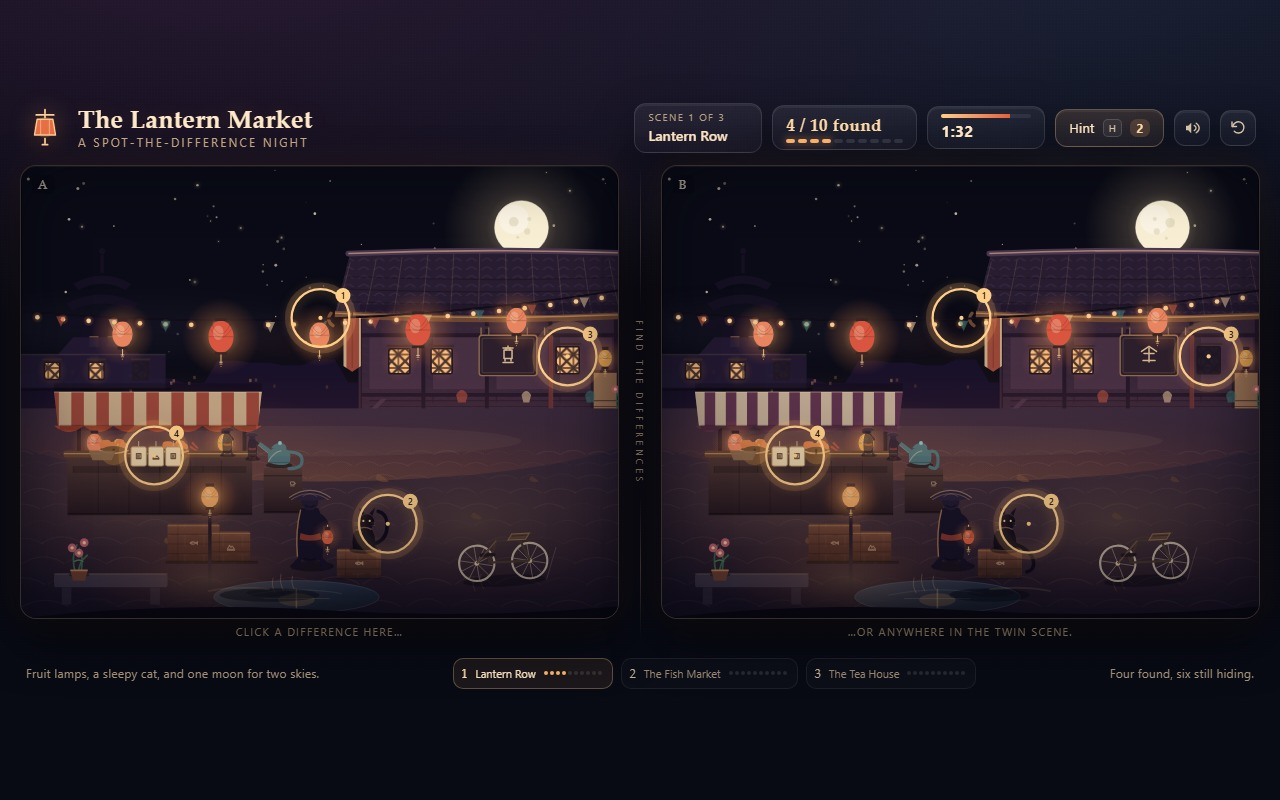
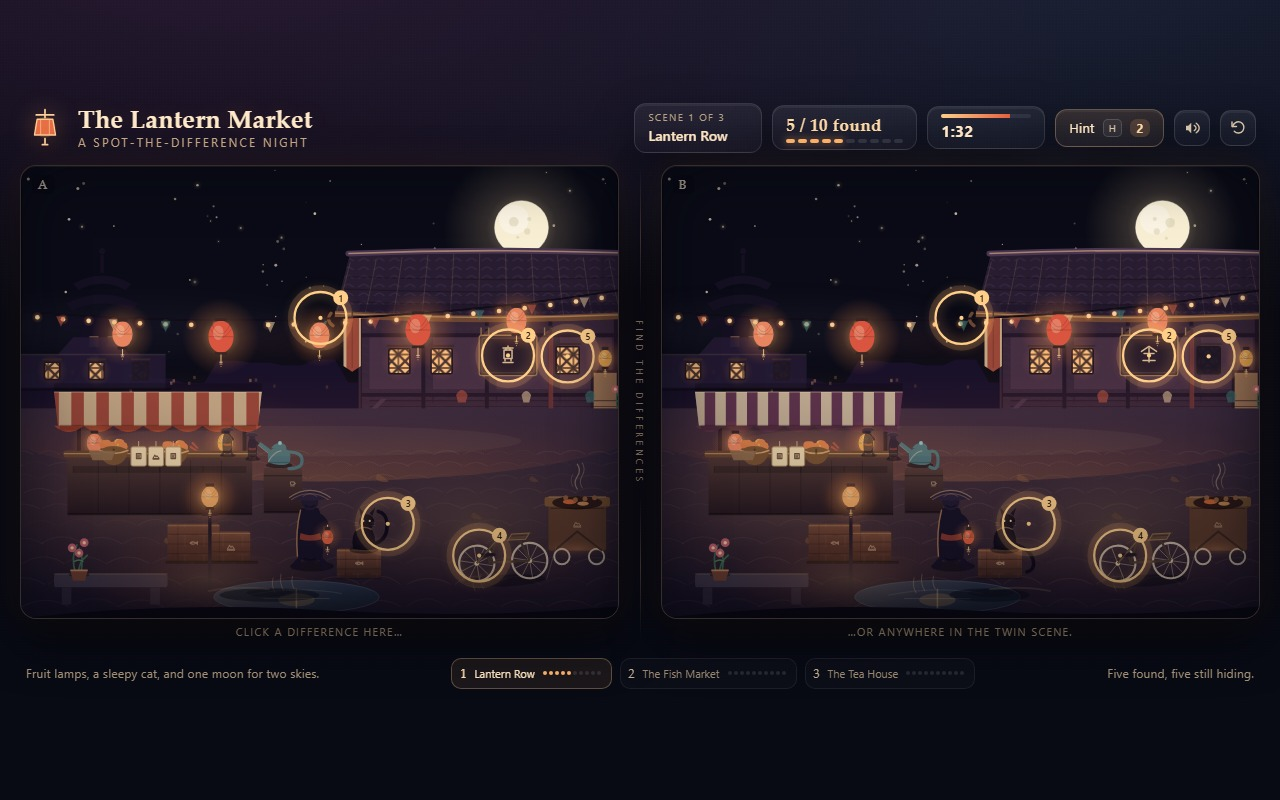
Lantern Row: chestnut cart, warmer tray, tighter markers, urgent clock
Scene 1 gains a steaming chestnut cart at the corner, scene 2 a chalk catch
sign and a cleaner scale, scene 3 a menu board and a lantern over the tea
table. Markers sit a little tighter, the clock turns urgent at thirty seconds,
and the cover now shows five finds.

diff --git a/game/src/scenes/lantern-row.js b/game/src/scenes/lantern-row.js
@@ -8,7 +8,7 @@ import {
 import {
   paperLantern, bulbString, awning, counter, crates, signBoard, windowBox,
   standingFigure, cat, bicycle, teapot, glyph, fruitBasket, puddle, potPlant,
-  hangingCloth, roofTiles,
+  hangingCloth, roofTiles, steam,
 } from '../art/props.js';
 
 const CABLE = [-10, 150, 630, 128, 40];
@@ -206,6 +206,24 @@ export const lanternRow = {
       <g opacity=".5">
         <path d="M262 428 q-3 8 2 16 M270 424 q-2 10 3 18 M282 426 q-2 8 2 14" stroke="#ffcf8a" stroke-width="1.1" fill="none" opacity=".5"/>
         <path d="M470 428 q-2 8 2 14 M478 424 q-2 10 3 16" stroke="#ffb469" stroke-width="1" fill="none" opacity=".35"/>
+      </g>
+
+      <!-- chestnut cart at the corner -->
+      <g>
+        <rect x="548" y="352" width="60" height="48" rx="3" fill="#5d3b2c"/>
+        <rect x="544" y="344" width="68" height="10" rx="2" fill="#7a5232"/>
+        <path d="M548 344 H608" stroke="#ffcf8a" stroke-opacity=".35" stroke-width="1.4"/>
+        <ellipse cx="578" cy="350" rx="26" ry="7" fill="#2f1a18"/>
+        <ellipse cx="570" cy="349" rx="7" ry="2.6" fill="#ff7a3a" opacity=".75"/>
+        <ellipse cx="584" cy="351" rx="6" ry="2.2" fill="#ffb469" opacity=".7"/>
+        ${[566, 576, 586, 596].map((x) => `<circle cx="${x}" cy="${347 - (x % 3)}" r="2.6" fill="#8a5a3a"/>`).join('')}
+        ${steam({ x: 578, y: 336, s: 0.65 })}
+        <path d="M550 356 h56" stroke="#00000044" stroke-width="1.4"/>
+        <circle cx="562" cy="406" r="8" fill="none" stroke="#c9b8a3" stroke-width="2"/>
+        <circle cx="598" cy="406" r="8" fill="none" stroke="#c9b8a3" stroke-width="2"/>
+        <path d="M554 400 L578 380 L604 400" fill="none" stroke="#3a2620" stroke-width="2"/>
+        ${glyph('mount', 578, 372, 12, '#e8c79a', 1, 0.5)}
+        <ellipse cx="578" cy="398" rx="38" ry="10" fill="url(#pool-warm)" opacity=".7"/>
       </g>
 
       <!-- the cat and its crate -->

diff --git a/game/src/main.js b/game/src/main.js
@@ -338,14 +338,14 @@ function poseShot(mode) {
     return;
   }
   if (mode === 'cover') {
-    hunt.pose(0, pick(['lantern', 'cat', 'window', 'price']), 93, 1);
+    hunt.pose(0, pick(['lantern', 'sign', 'cat', 'window', 'wheel']), 93, 1);
     paintScene();
     paintFoundMarkers();
-    hud.setFound(4, 10);
+    hud.setFound(5, 10);
     hud.updateTrack(hunt.scenes, hunt.index);
     hud.setTime(93, 120);
     hud.setHints(2);
-    hud.toast('Four found, six still hiding.', { quiet: true, hold: 900000 });
+    hud.toast('Five found, five still hiding.', { quiet: true, hold: 900000 });
     return;
   }
   if (mode === 'play') {
@@ -362,12 +362,12 @@ function poseShot(mode) {
     return;
   }
   if (mode === 'found') {
-    hunt.pose(2, pick(['lattice', 'steam', 'teapot', 'umbrella', 'tassel', 'flowers']), 41, 2);
+    hunt.pose(2, pick(['lattice', 'steam', 'teapot', 'umbrella', 'tassel', 'flowers']), 18, 2);
     paintScene();
     paintFoundMarkers();
     hud.setFound(6, 10);
     hud.updateTrack(hunt.scenes, hunt.index);
-    hud.setTime(41, 120);
+    hud.setTime(18, 120);
     hud.setHints(1);
     hud.toast('Six found — the tea house is nearly read.', { quiet: true, hold: 900000 });
     const hinted = hunt.scene.spots.find((spot) => !spot.found);

diff --git a/game/src/scenes/tea-house.js b/game/src/scenes/tea-house.js
@@ -20,6 +20,10 @@ function teaHouseFacade(B) {
     <rect x="140" y="148" width="340" height="8" fill="#1c1326" opacity=".55"/>
     <ellipse cx="310" cy="292" rx="190" ry="46" fill="url(#lantern-glow)" opacity=".28"/>
     <g>
+      <rect x="396" y="196" width="52" height="40" rx="2" fill="#2a1b26" opacity=".9"/>
+      <rect x="400" y="200" width="44" height="32" rx="1" fill="#e8c79a" opacity=".22"/>
+      <path d="M406 208 h32 M406 216 h26 M406 224 h30" stroke="#e8c79a" stroke-width="1" opacity=".35"/>
+      <path d="M396 196 h52" stroke="#6b4a33" stroke-width="2"/>
       <path d="M462 196 v-16 M462 196 h-4" stroke="#2a1b26" stroke-width="1.4"/>
       ${paperLantern({ x: 462, y: 208, w: 14, h: 18, colour: '#e8a34f', tassel: 4 })}
       <rect x="336" y="204" width="22" height="38" fill="#8a3f3f" opacity=".7"/>
@@ -152,6 +156,10 @@ export const teaHouse = {
         <path d="M124 300 q-3 -4 1 -6" fill="none" stroke="#6b5a3a" stroke-width="2"/>
       </g>
 
+      <g>
+        <path d="M330 286 v10" stroke="#3a2a2a" stroke-width="1.2"/>
+        ${paperLantern({ x: 330, y: 306, w: 18, h: 22, colour: '#e8a34f', tassel: 5 })}
+      </g>
       ${lightPool(310, 372, 220, 74, 0.65)}
 
       <!-- the tea table -->

diff --git a/game/src/scenes/fish-market.js b/game/src/scenes/fish-market.js
@@ -162,6 +162,11 @@ export const fishMarket = {
         </g>
 
         <path d="M246 388 H602" stroke="#00000055" stroke-width="2"/>
+        <g opacity=".75">
+          <rect x="272" y="342" width="52" height="30" rx="2" fill="#241a20"/>
+          ${glyph('fish', 298, 356, 20, '#e8c79a', 1.4, 0.55)}
+          <path d="M280 366 H316" stroke="#e8c79a" stroke-opacity=".3" stroke-width="1"/>
+        </g>
         <path d="M300 388 V410 M540 388 V410" stroke="#2a1a20" stroke-width="4"/>
 
         <!-- the hanging scale -->

diff --git a/game/src/hud.js b/game/src/hud.js
@@ -88,7 +88,7 @@ export class Hud {
     if (this.timerFill) {
       this.timerFill.style.transform = `scaleX(${Math.max(0, Math.min(1, clamped / total))})`;
     }
-    if (this.timerChip) this.timerChip.classList.toggle('urgent', clamped <= 20);
+    if (this.timerChip) this.timerChip.classList.toggle('urgent', clamped <= 30);
   }
 
   setHints(left) {

diff --git a/game/src/board.js b/game/src/board.js
@@ -37,7 +37,7 @@ function layer(svg, name) {
 }
 
 export function markerRadius(hotspot) {
-  return Math.max(16, Math.min(30, Math.max(hotspot.w, hotspot.h) / 2 + 3));
+  return Math.max(15, Math.min(27, Math.max(hotspot.w, hotspot.h) / 2 + 2));
 }
 
 export function addFoundMarker(svg, hotspot, number) {
